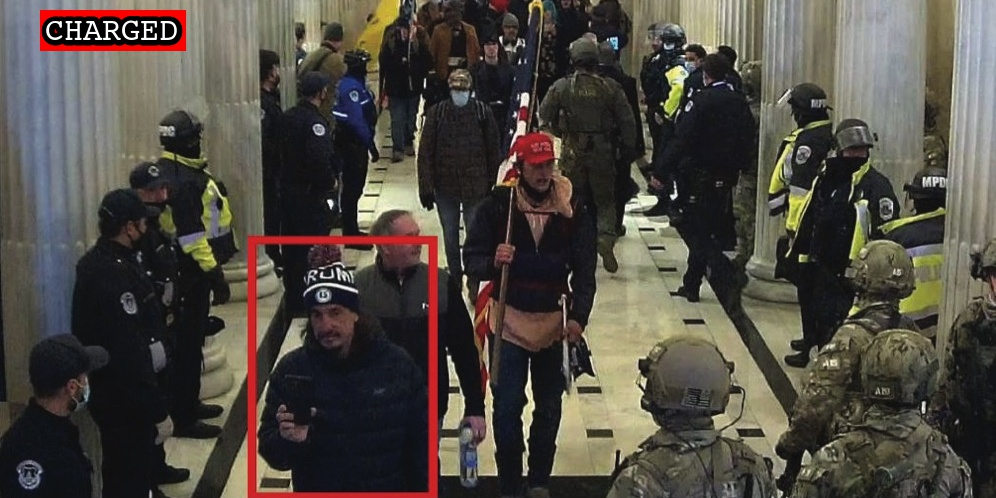
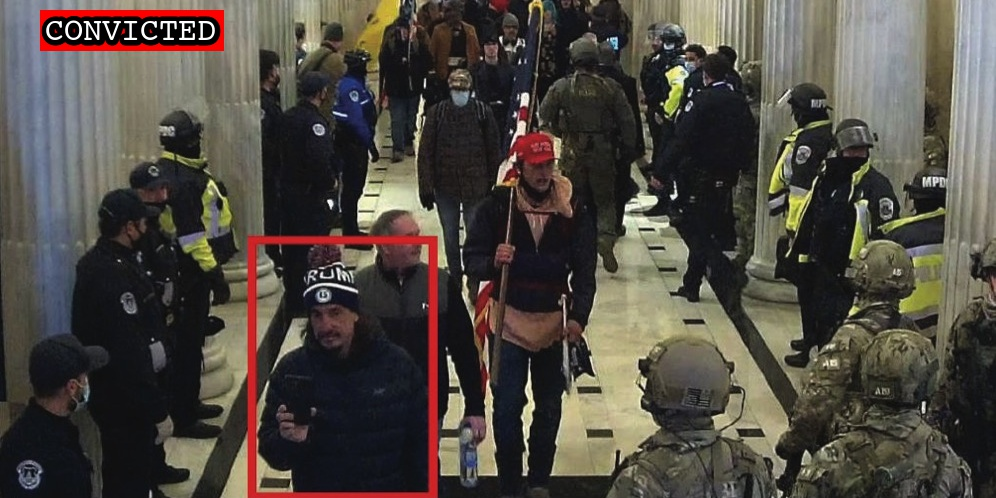
Latest import

Changed region(s): [[0.0622, 0.0, 0.249, 0.1205]]

diff --git a/docs/_suspects/michael-mccormick.md b/docs/_suspects/michael-mccormick.md
@@ -4,15 +4,17 @@ lastName: McCormick
 hashtag:
 aka:
 residence: California
-status: Charged
+status: Convicted
 date: 2021-11-16
 charged: 2021-11-16
 indicted:
-convicted:
+convicted: 2022-07-18
+acquitted:
 sentenced:
 dismissed:
 deceased:
 plea_hearing: 2022-07-18
+trial_date:
 sentencing:
 age:
 occupation:
@@ -34,10 +36,15 @@ published: true
 caseNumber: 1:21-cr-710
 videos:
 charges:
+- code: 40 USC § 5104(e)(2)(G)
+  title: Parading, demonstrating or picketing in a Capitol building
+  url: https://www.law.cornell.edu/uscode/text/40/5104
+  felony: false
 sentence:
 ---
-
 - [News Report](https://www.mercurynews.com/2021/12/03/man-arrested-in-orange-in-connection-with-capitol-insurrection/)
 - [Complaint](https://www.justice.gov/usao-dc/case-multi-defendant/file/1459001/download)
 - [Information](https://www.justice.gov/usao-dc/case-multi-defendant/file/1458996/download)
 - [Statement of Facts](https://www.justice.gov/usao-dc/case-multi-defendant/file/1459006/download)
+- [Plea Agreement](https://www.justice.gov/usao-dc/case-multi-defendant/file/1522211/download)
+- [Statement of Offense](https://www.justice.gov/usao-dc/case-multi-defendant/file/1522216/download)
